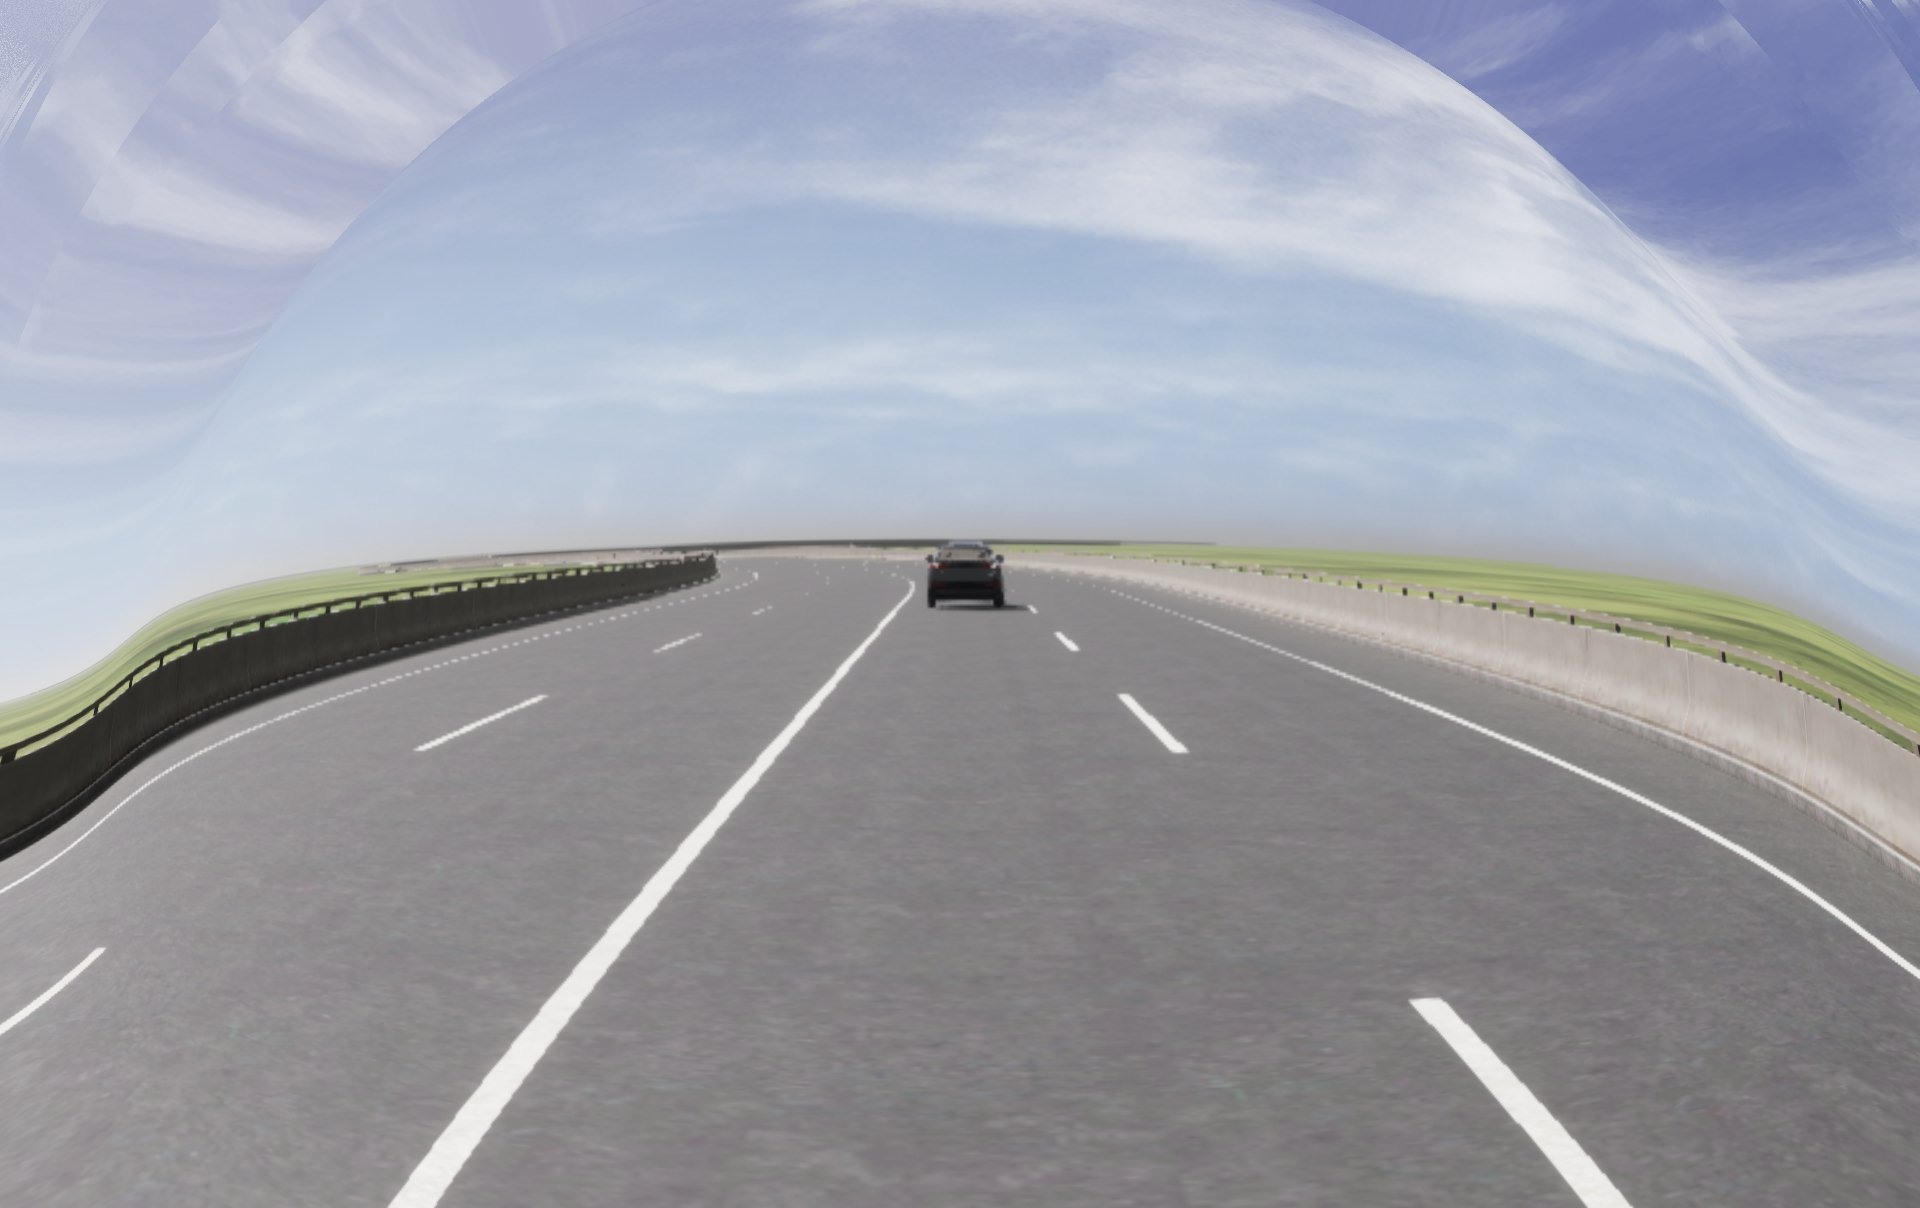
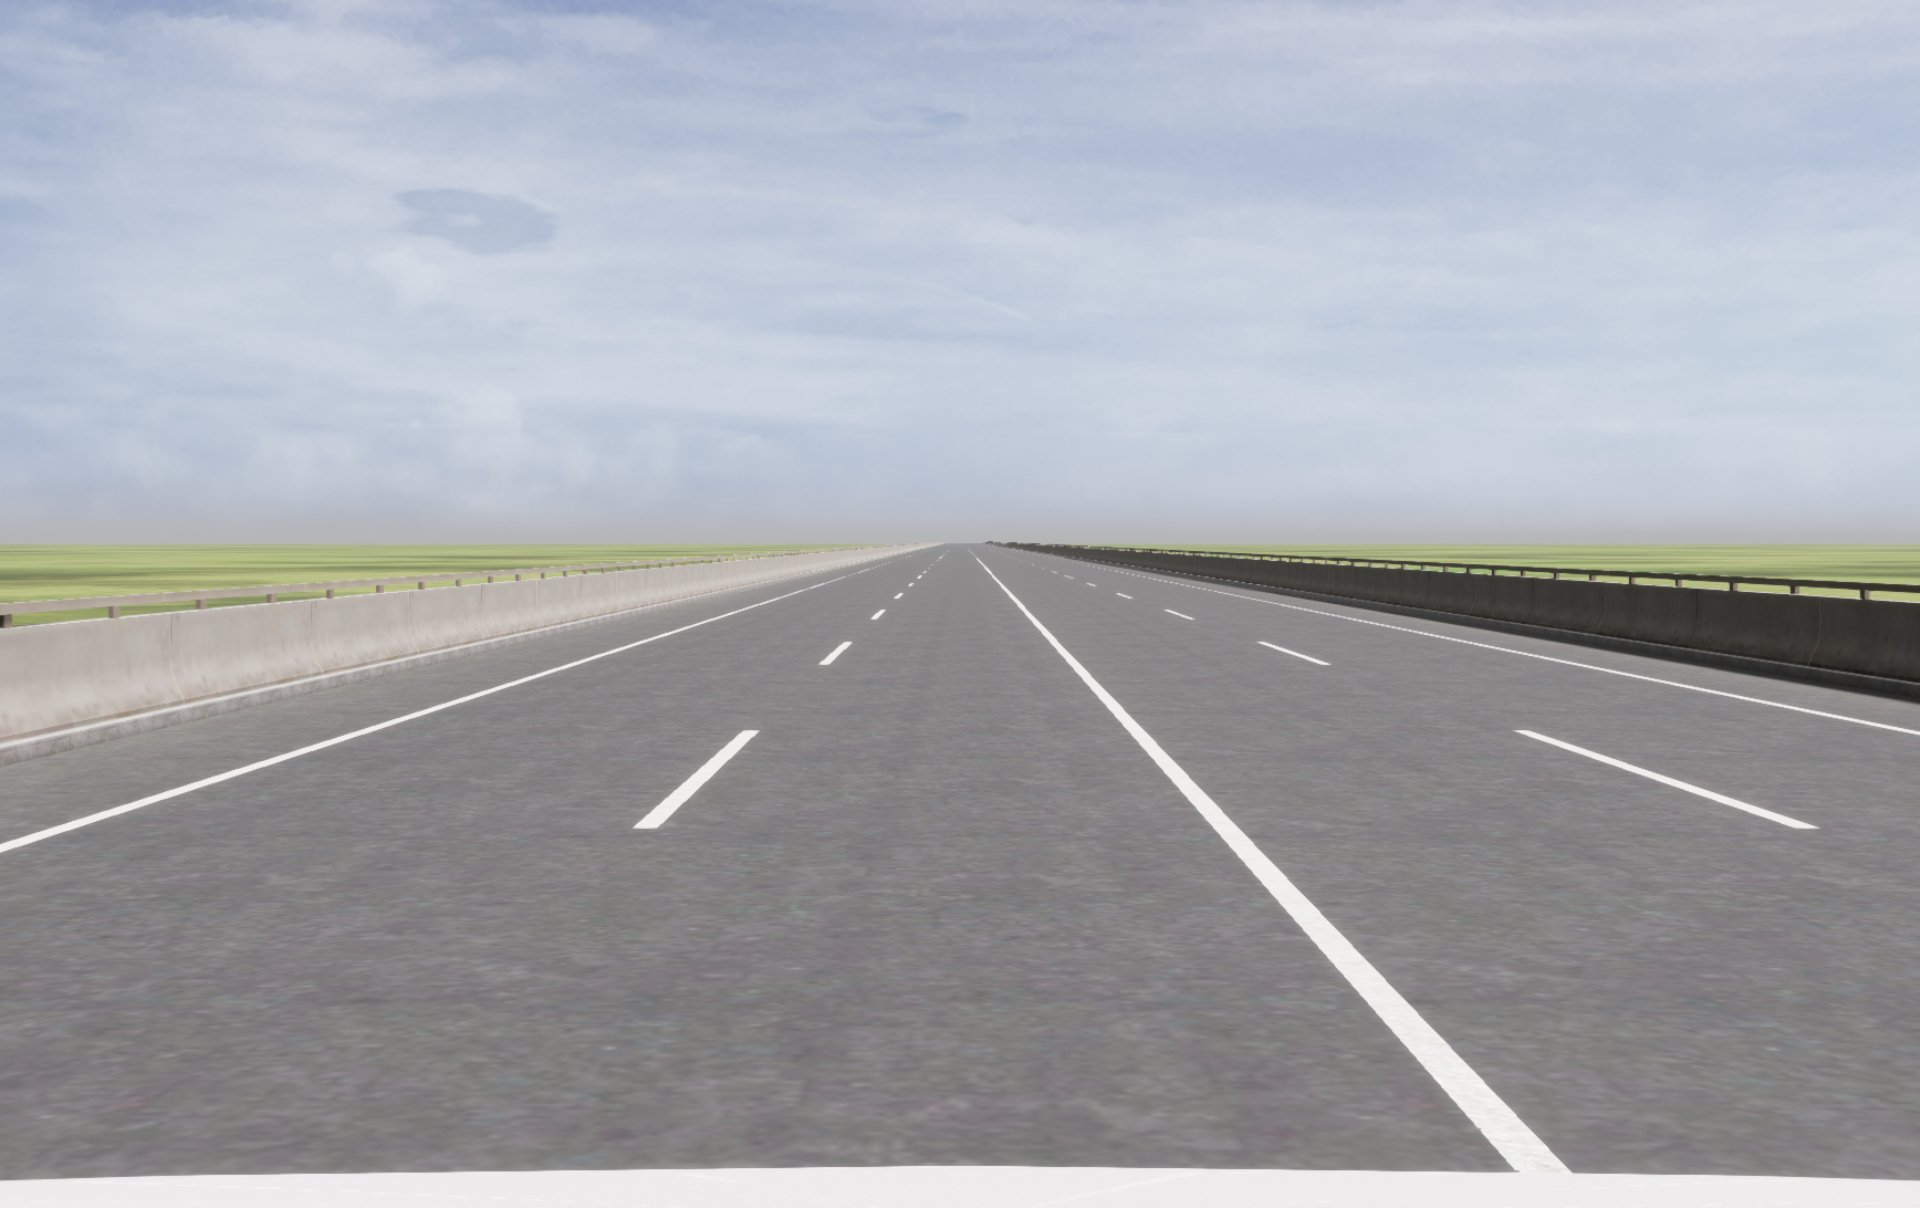
update example 2

diff --git a/src/CameraFun.cc b/src/CameraFun.cc
@@ -27,6 +27,7 @@ CameraFun::CameraFun():it_(ros::NodeHandle()){
 CameraFun::CameraFun(const ros::NodeHandle& n):it_(n){
 	std::cerr<<"with handle constructor\n";
 	pub_ = it_.advertise("tadsim_img",0);
+	// pub2_ = it_.advertise("tadsim_img2",0);
 }
 
 void CameraFun::Init(tx_sim::InitHelper& helper)
@@ -35,7 +36,6 @@ void CameraFun::Init(tx_sim::InitHelper& helper)
 	
 	
 	// 从ui得到图像的Height,Width
-
 	auto value = helper.GetParameter("Width");
 	if (value.empty()) {
 		std::cerr << "Need image width" << std::endl;
@@ -75,11 +75,12 @@ void CameraFun::Step(tx_sim::StepHelper& helper) {
 		std::cerr << "Cannot parse sensorraw" << std::endl;
 		return;
 	}
-	// std::cerr << " sensorraw.sensor length is :" << sensorraw.sensor().size() << std::endl;
+	//std::cerr << " sensorraw.sensor length is :" << sensorraw.sensor().size() << std::endl;
 	
+	// int camera_count = 0;
 	for(auto& sensor:sensorraw.sensor()){
 		if(sensor.type() == sim_msg::SensorRaw::TYPE_CAMERA){
-
+			// camera_count++;
 			sim_msg::CameraRaw camera;
 			if (!camera.ParseFromString(sensor.raw()))
 			{
@@ -109,7 +110,13 @@ void CameraFun::Step(tx_sim::StepHelper& helper) {
             	sensor_msgs::ImagePtr ros_image = cv_bridge::CvImage(std_msgs::Header(), "bgr8", cvImg_).toImageMsg();
 
             	// Publish the ROS image message
-            	pub_.publish(ros_image);
+				pub_.publish(ros_image);
+
+				// // 示例二：多路相机
+				// if(1==camera_count)
+            	// 	pub_.publish(ros_image);
+				// else if(2==camera_count)
+				// 	pub2_.publish(ros_image);
 
             	std::cerr << "[ROS] Publish image success" << std::endl;
 			}

diff --git a/include/CameraFun.h b/include/CameraFun.h
@@ -38,6 +38,7 @@ private:
 	// imagetransport相关
 	image_transport::ImageTransport it_;
 	image_transport::Publisher pub_;
+	image_transport::Publisher pub2_;
 	const std::string img_last_ = IMAGE_PATH+std::string("/last.jpg");
 	const std::string img_raw_ = IMAGE_PATH+std::string("/raw.jpg");
 };

diff --git a/README.md b/README.md
@@ -130,6 +130,38 @@
 
 </details>
 
+## <div align="center">示例2：多路相机环视感知</div>
+<!-- setting details to open will display all below  -->
+<details open>
+<summary>示例背景</summary>
+ 
+  - TAD Sim可以对自动驾驶主车添加任意数量的传感器，使得我们可以在仿真环境中搭建多路相机环视感知的主车模型，而这在现实场景中往往会受限于硬件成本而难以部署。
+
+    <img src=".github/images/four.png" width="850">
+</details>
+
+<details open>
+
+<summary>快速上手</summary>
+  
+1. 复制主车上已有的相机模型，将其拖动至主车上，调整其位置和朝向，如下图所示。
+    <img src=".github/images/back.png" width="850">
+
+2. 在**src/CameraFun.cc**中找到有关**示例二**的注释，探究双相机情况下的代码逻辑，对接收到的多路图像数据进行实时矫正并发布。
+
+3. 在Rviz中接收多路图像并显示。 
+    <img src=".github/images/all.png" width="850">
+
+</details>
+
+<details open>
+
+<summary>动手实践</summary>
+  
+- 通过查阅资料自学自动驾驶业界常用的BEV感知算法，尝试通过在TAD Sim中添加多路相机以运行BEV相关的demo。
+
+</details>
+
 
 ## <div align="center">Contact</div>
 Welcome all questions in issues tag or if u wanna contact me at nocap.wzh@gmail.com
